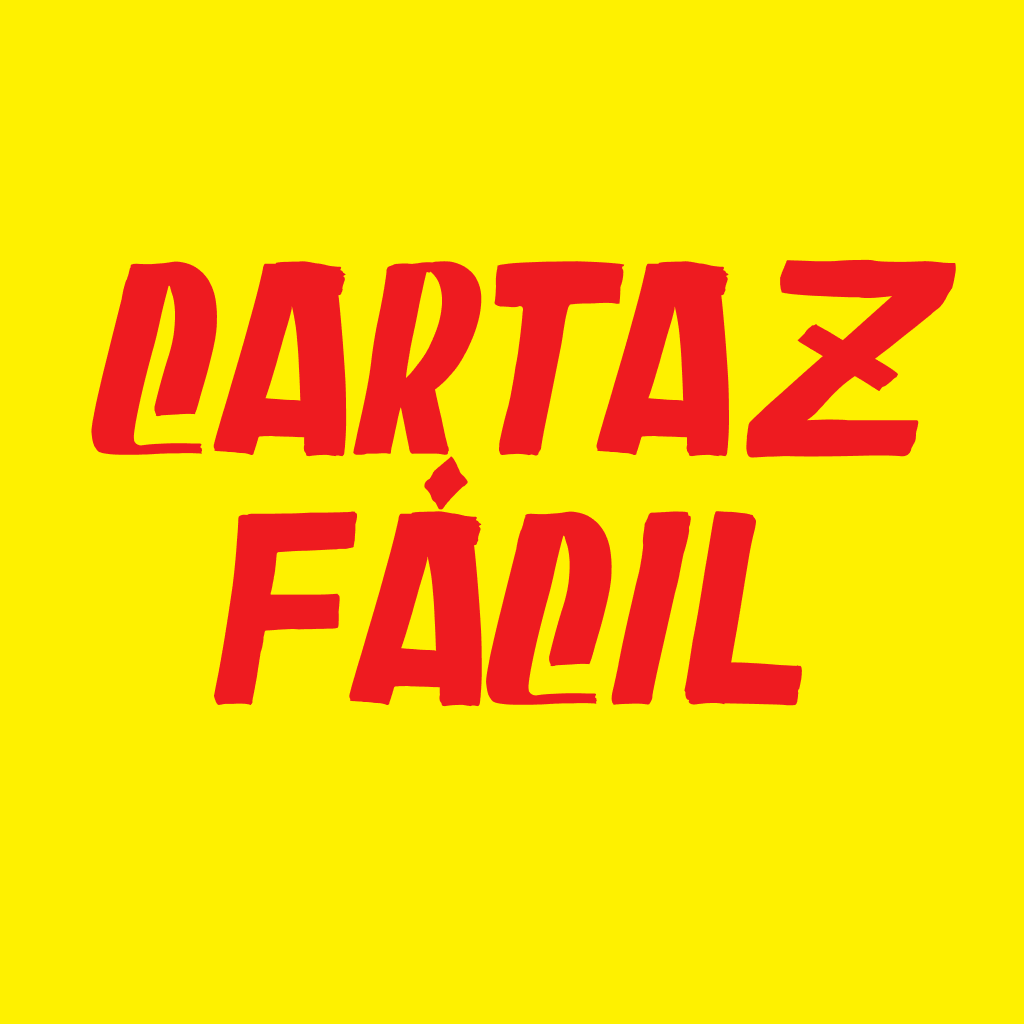
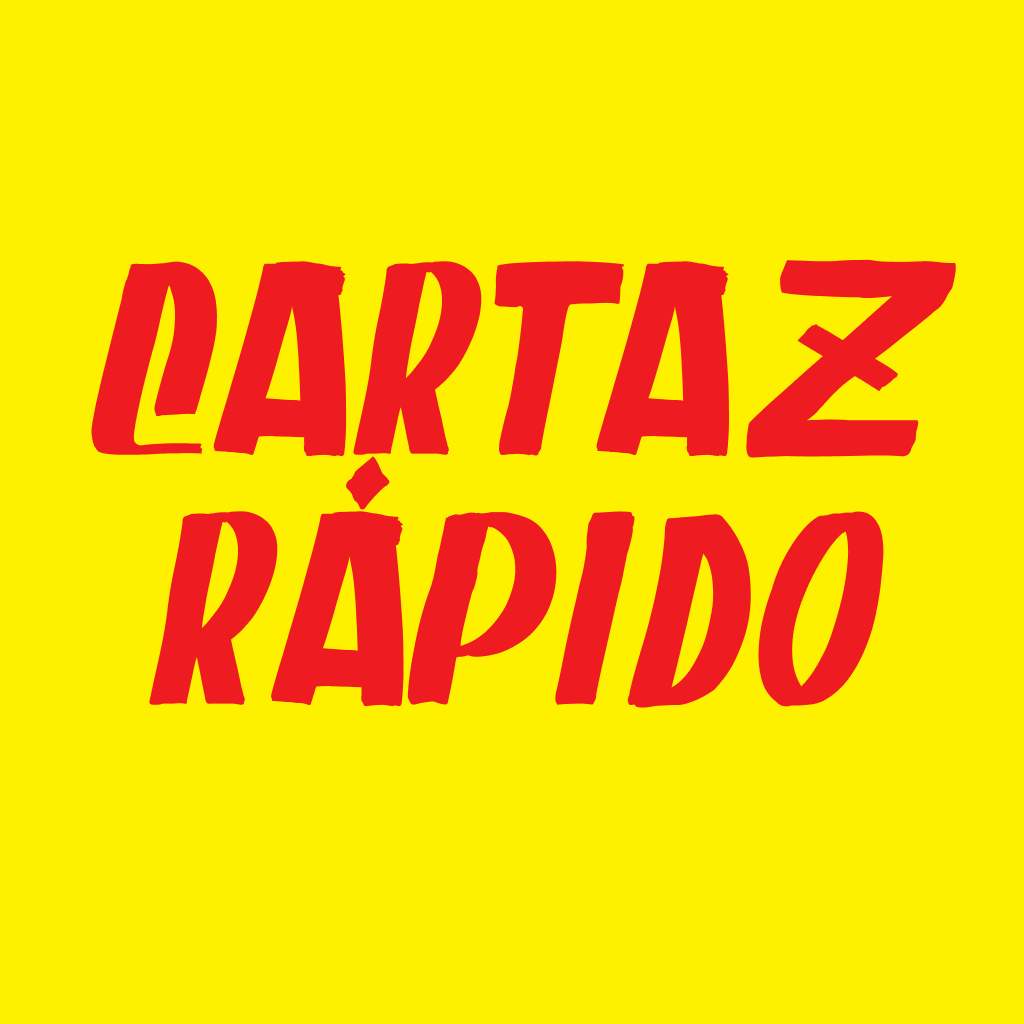
alterei o nome do app

Changed region(s): [[0.125, 0.4375, 0.875, 0.6875]]

diff --git a/lib/main.dart b/lib/main.dart
@@ -1,9 +1,9 @@
-import 'package:cartazfacil/Features/AllProductsList.dart';
-import 'package:cartazfacil/Features/Cartaz/CartazView.dart';
-import 'package:cartazfacil/Features/Home.dart';
-import 'package:cartazfacil/Initial/SplashScreen.dart';
-import 'package:cartazfacil/Model/Product.dart';
-import 'package:cartazfacil/Service.dart';
+import 'package:cartazrapido/Features/AllProductsList.dart';
+import 'package:cartazrapido/Features/Cartaz/CartazView.dart';
+import 'package:cartazrapido/Features/Home.dart';
+import 'package:cartazrapido/Initial/SplashScreen.dart';
+import 'package:cartazrapido/Model/Product.dart';
+import 'package:cartazrapido/Service.dart';
 import 'package:flutter/material.dart';
 import 'package:google_mobile_ads/google_mobile_ads.dart';
 import 'package:provider/provider.dart';
@@ -27,7 +27,7 @@ class MyApp extends StatelessWidget {
         ),
       ],
       child: MaterialApp(
-        title: 'Cartaz Fácil',
+        title: 'Cartaz Rápido',
         initialRoute: '/splash',
         routes: {
           '/splash': (context) => SplashScreen(),

diff --git a/lib/Features/AllProductsList.dart b/lib/Features/AllProductsList.dart
@@ -1,8 +1,8 @@
-import 'package:cartazfacil/AdMob/AdHelper.dart';
-import 'package:cartazfacil/DesignSystem/Components/EditValorPopUp.dart';
-import 'package:cartazfacil/DesignSystem/Components/NavigationBackButton.dart';
-import 'package:cartazfacil/Model/Product.dart';
-import 'package:cartazfacil/Service.dart';
+import 'package:cartazrapido/AdMob/AdHelper.dart';
+import 'package:cartazrapido/DesignSystem/Components/EditValorPopUp.dart';
+import 'package:cartazrapido/DesignSystem/Components/NavigationBackButton.dart';
+import 'package:cartazrapido/Model/Product.dart';
+import 'package:cartazrapido/Service.dart';
 import 'package:flutter/cupertino.dart';
 import 'package:flutter/material.dart';
 import 'package:google_mobile_ads/google_mobile_ads.dart';

diff --git a/lib/Features/Cartaz/CartazView.dart b/lib/Features/Cartaz/CartazView.dart
@@ -1,10 +1,10 @@
 import 'dart:typed_data';
 
-import 'package:cartazfacil/AdMob/AdHelper.dart';
-import 'package:cartazfacil/DesignSystem/Components/CFButton.dart';
-import 'package:cartazfacil/DesignSystem/Tokens/Font.dart';
-import 'package:cartazfacil/Model/Product.dart';
-import 'package:cartazfacil/Service.dart';
+import 'package:cartazrapido/AdMob/AdHelper.dart';
+import 'package:cartazrapido/DesignSystem/Components/CFButton.dart';
+import 'package:cartazrapido/DesignSystem/Tokens/Font.dart';
+import 'package:cartazrapido/Model/Product.dart';
+import 'package:cartazrapido/Service.dart';
 import 'package:flutter/cupertino.dart';
 import 'package:flutter/material.dart';
 import 'package:flutter/rendering.dart';

diff --git a/lib/Features/Home.dart b/lib/Features/Home.dart
@@ -1,10 +1,10 @@
 import 'dart:io';
 import 'dart:typed_data';
 
-import 'package:cartazfacil/AdMob/AdHelper.dart';
-import 'package:cartazfacil/DesignSystem/Components/CFButton.dart';
-import 'package:cartazfacil/DesignSystem/Tokens/Font.dart';
-import 'package:cartazfacil/Service.dart';
+import 'package:cartazrapido/AdMob/AdHelper.dart';
+import 'package:cartazrapido/DesignSystem/Components/CFButton.dart';
+import 'package:cartazrapido/DesignSystem/Tokens/Font.dart';
+import 'package:cartazrapido/Service.dart';
 import 'package:flutter/cupertino.dart';
 import 'package:flutter/material.dart';
 import 'package:flutter/rendering.dart';

diff --git a/lib/DesignSystem/Components/EditValorPopUp.dart b/lib/DesignSystem/Components/EditValorPopUp.dart
@@ -1,6 +1,6 @@
-import 'package:cartazfacil/DesignSystem/DesignTokens.dart';
-import 'package:cartazfacil/Model/Product.dart';
-import 'package:cartazfacil/Service.dart';
+import 'package:cartazrapido/DesignSystem/DesignTokens.dart';
+import 'package:cartazrapido/Model/Product.dart';
+import 'package:cartazrapido/Service.dart';
 import 'package:flutter/material.dart';
 import 'package:provider/provider.dart';
 

diff --git a/lib/Initial/SplashScreen.dart b/lib/Initial/SplashScreen.dart
@@ -1,6 +1,6 @@
 import 'dart:async';
-import 'package:cartazfacil/DesignSystem/DesignTokens.dart';
-import 'package:cartazfacil/Service.dart';
+import 'package:cartazrapido/DesignSystem/DesignTokens.dart';
+import 'package:cartazrapido/Service.dart';
 import 'package:flutter/cupertino.dart';
 import 'package:flutter/material.dart';
 import 'package:provider/provider.dart';

diff --git a/lib/Service.dart b/lib/Service.dart
@@ -1,7 +1,7 @@
 import 'dart:convert';
 import 'package:http/http.dart' as http;
-import 'package:cartazfacil/Model/Encarte.dart';
-import 'package:cartazfacil/Model/Product.dart';
+import 'package:cartazrapido/Model/Encarte.dart';
+import 'package:cartazrapido/Model/Product.dart';
 import 'package:flutter/material.dart';
 
 class Service extends ChangeNotifier {

diff --git a/lib/DesignSystem/Components/CFButton.dart b/lib/DesignSystem/Components/CFButton.dart
@@ -1,5 +1,5 @@
-import 'package:cartazfacil/DesignSystem/DesignTokens.dart';
-import 'package:cartazfacil/DesignSystem/Tokens/Font.dart';
+import 'package:cartazrapido/DesignSystem/DesignTokens.dart';
+import 'package:cartazrapido/DesignSystem/Tokens/Font.dart';
 import 'package:flutter/material.dart';
 
 class CFButton extends StatefulWidget {

diff --git a/test/widget_test.dart b/test/widget_test.dart
@@ -8,7 +8,7 @@
 import 'package:flutter/material.dart';
 import 'package:flutter_test/flutter_test.dart';
 
-import 'package:cartazfacil/main.dart';
+import 'package:cartazrapido/main.dart';
 
 void main() {
   testWidgets('Counter increments smoke test', (WidgetTester tester) async {

diff --git a/lib/Model/Encarte.dart b/lib/Model/Encarte.dart
@@ -1,4 +1,4 @@
-import 'package:cartazfacil/Model/Product.dart';
+import 'package:cartazrapido/Model/Product.dart';
 
 class Encarte {
   final String name;
